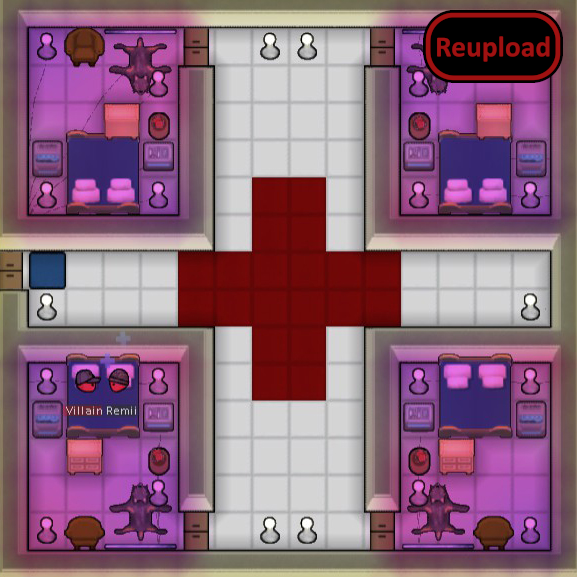
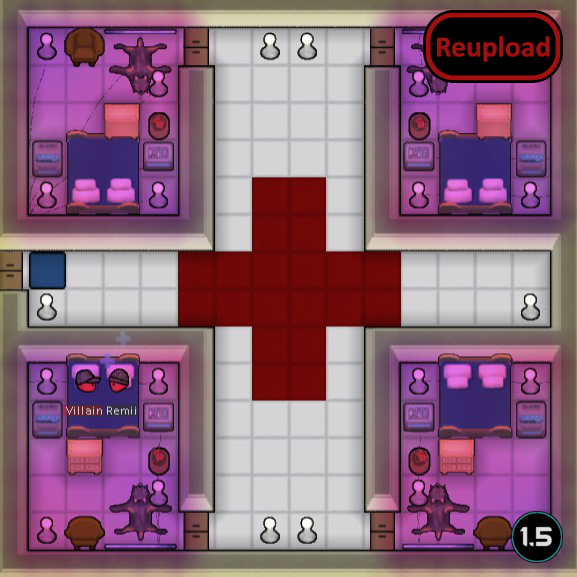
Mod updated for 1.5 and passed autotests

Changed region(s): [[0.8735, 0.8735, 0.9983, 0.9983]]

diff --git a/README.md b/README.md
@@ -1,6 +1,6 @@
 # ColourfulSterileTiles
 
-![Image](https://i.imgur.com/buuPQel.png)
+![Image](https://i.imgur.com/iCj5o7O.png)
 
   
 This mod adds Colourful Sterile Tiles, Sterile Tiles help keep the room clean. Very useful in hospitals to prevent patients from getting various infections. Neutral in terms of looks and very slow to build.
@@ -9,17 +9,26 @@ This is a continuation of Captain Stakys mod Red Sterile Tile:
 https://steamcommunity.com/sharedfiles/filedetails/?id=1273442199
 Fixed and reuploaded with their permission.
 
-![Image](https://i.imgur.com/PwoNOj4.png)
+![Image](https://i.imgur.com/Ds0rBAD.png)
+
+Since modding is just a hobby for me I expect no donations to keep modding. If you still want to show your support you can gift me anything from my https://store.steampowered.com/wishlist/id/Mlie]Wishlist or buy me a cup of tea.
+
+https://ko-fi.com/G2G55DDYD]![Image](https://i.imgur.com/VWG0yff.png)
+
+
+![Image](https://i.imgur.com/5xwDG6H.png)
 
 
 
 -  See if the the error persists if you just have this mod and its requirements active.
 -  If not, try adding your other mods until it happens again.
--  Post your error-log using https://steamcommunity.com/workshop/filedetails/?id=818773962]HugsLib and command Ctrl+F12
+-  Post your error-log using https://steamcommunity.com/workshop/filedetails/?id=818773962]HugsLib or the standalone https://steamcommunity.com/sharedfiles/filedetails/?id=2873415404]Uploader and command Ctrl+F12
 -  For best support, please use the Discord-channel for error-reporting.
 -  Do not report errors by making a discussion-thread, I get no notification of that.
 -  If you have the solution for a problem, please post it to the GitHub repository.
+-  Use https://github.com/RimSort/RimSort/releases/latest]RimSort to sort your mods
 
 
 
+https://steamcommunity.com/sharedfiles/filedetails/changelog/1619656080]![Image](https://img.shields.io/github/v/release/emipa606/ColourfulSterileTiles?label=latest%20version&style=plastic&labelColor=0070cd&color=white)
 
